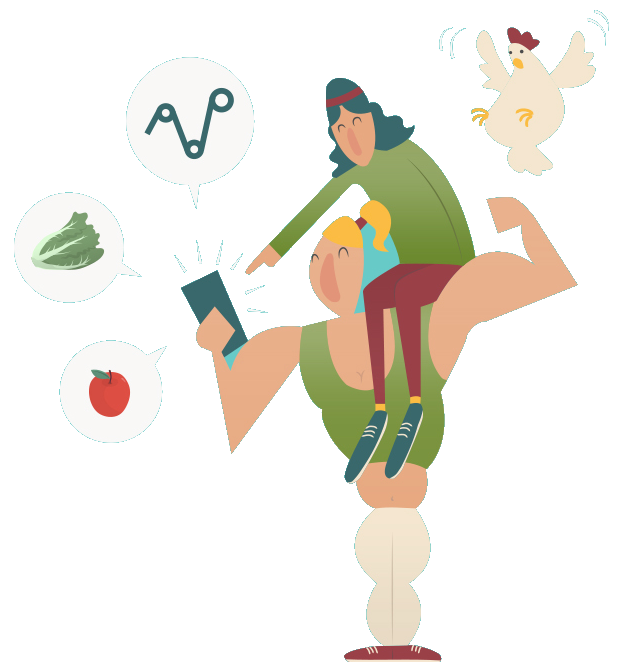
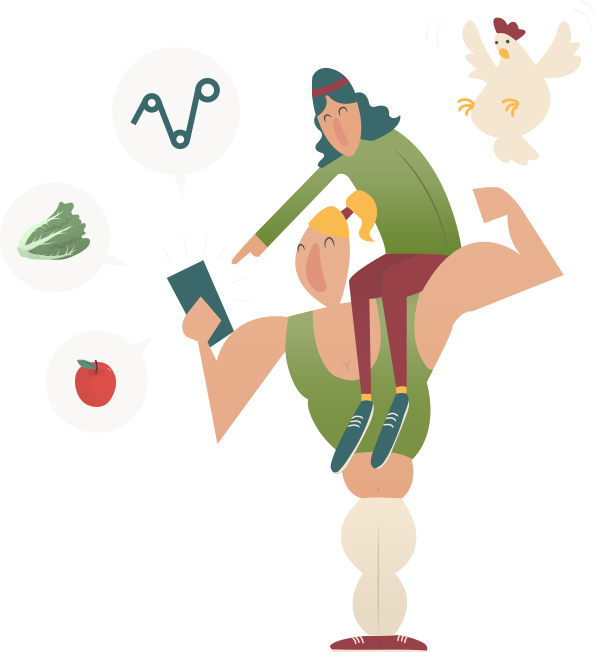
updated pictures

diff --git a/index.html b/index.html
@@ -105,7 +105,7 @@
                         <i class="fa fa-circle fa-stack-2x text-primary"></i>
                         <i class="fa fa-shopping-cart fa-stack-1x fa-inverse"></i>
                     </span> -->
-                    <img src="img/feature/search.png" alt="logo-long" width="180">
+                    <img src="img/feature/search.jpg" alt="search" width="180">
                     <h4 class="service-heading">Search</h4>
                     <p class="text-muted">Look for your favorite foods in the exhaustive USDA database, with thousands of entries.</p>
                 </div>
@@ -114,7 +114,7 @@
                         <i class="fa fa-circle fa-stack-2x text-primary"></i>
                         <i class="fa fa-laptop fa-stack-1x fa-inverse"></i>
                     </span> -->
-                    <img src="img/feature/explore.png" alt="logo-long" width="180">
+                    <img src="img/feature/explore.jpg" alt="explore" width="180">
                     <h4 class="service-heading">Learn</h4>
                     <p class="text-muted">Take a deep look at what you eat.</p>
                 </div>
@@ -123,7 +123,7 @@
                         <i class="fa fa-circle fa-stack-2x text-primary"></i>
                         <i class="fa fa-lock fa-stack-1x fa-inverse"></i>
                     </span> -->
-                    <img src="img/feature/optimize.png" alt="logo-long" width="180">
+                    <img src="img/feature/optimize.jpg" alt="optimize" width="180">
                     <h4 class="service-heading">Optimize</h4>
                     <p class="text-muted">Increase the protein quality of your meal!</p>
                 </div>
